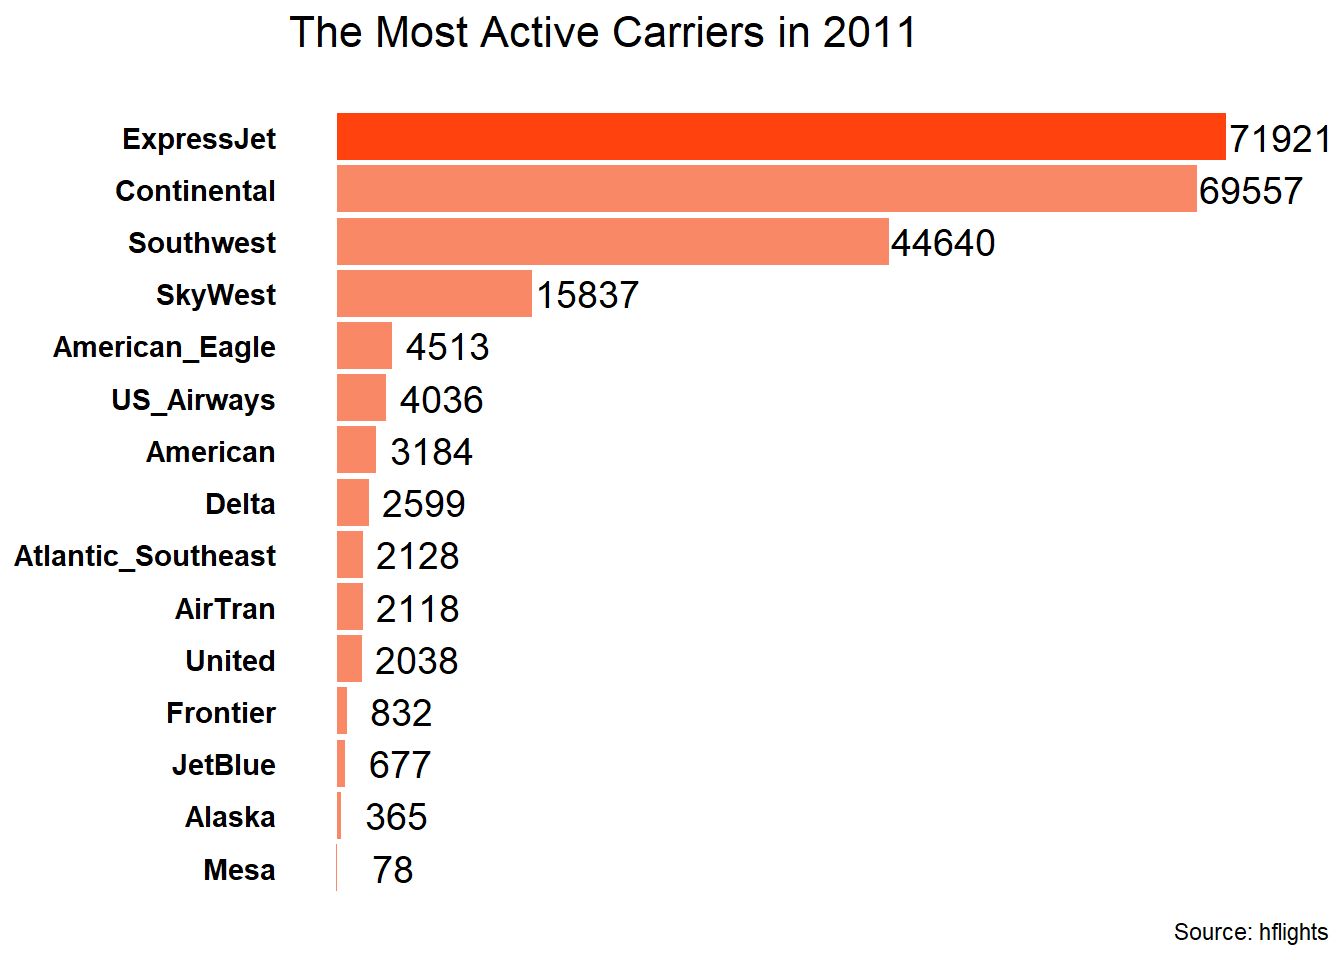
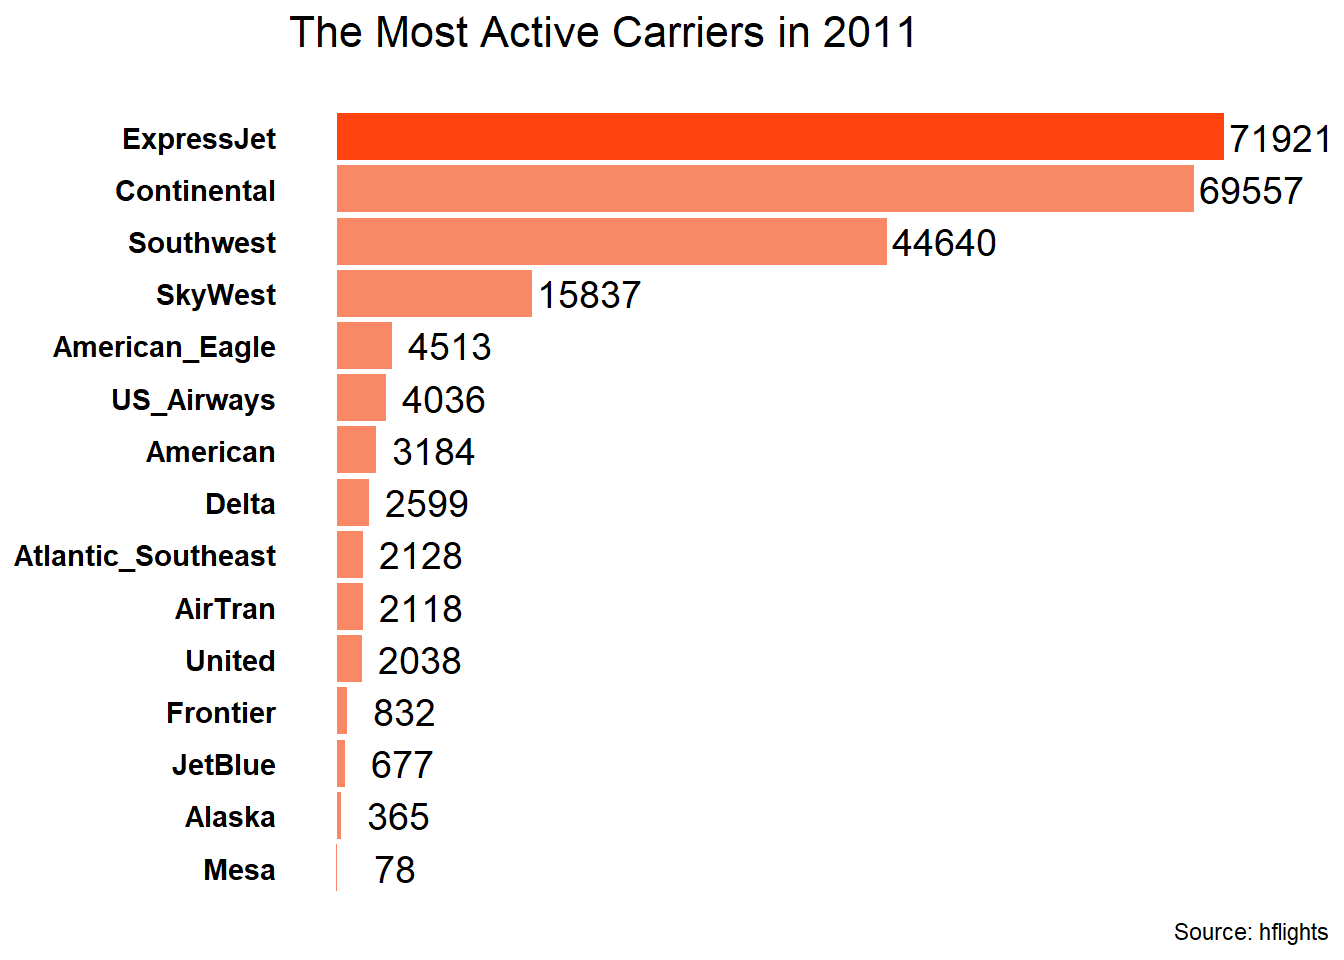
Initial Commit

diff --git a/content/post/2018-11-16-analysis-of-airlines-market-in-usa.html b/content/post/2018-11-16-analysis-of-airlines-market-in-usa.html
@@ -127,7 +127,7 @@ market_snapshot</code></pre>
 ggplot(market_snapshot, aes(x = reorder(Carrier, flights), y = flights)) + 
   geom_bar(stat = &quot;identity&quot;, aes(fill = highest)) + 
   scale_fill_manual(values = c(&quot;#F98866&quot;,&quot;#FF420E&quot;)) + coord_flip() +
-  geom_text(aes(y= flights, x = seq(15,1), label = paste0(round(flights),&quot;&quot;)), nudge_y = 4500, color=&quot;black&quot;, size = 5) + 
+  geom_text(aes(y= flights, x = seq(15,1), label = paste0(round(flights),&quot;&quot;)), nudge_y = 4700, color=&quot;black&quot;, size = 5) + 
   theme_minimal() +
   theme(axis.title.x = element_blank(),
         axis.title.y = element_blank(),

diff --git a/public/post/analysis-of-airlines-market-in-usa/index.html b/public/post/analysis-of-airlines-market-in-usa/index.html
@@ -200,7 +200,7 @@ market_snapshot</code></pre>
 ggplot(market_snapshot, aes(x = reorder(Carrier, flights), y = flights)) + 
   geom_bar(stat = &quot;identity&quot;, aes(fill = highest)) + 
   scale_fill_manual(values = c(&quot;#F98866&quot;,&quot;#FF420E&quot;)) + coord_flip() +
-  geom_text(aes(y= flights, x = seq(15,1), label = paste0(round(flights),&quot;&quot;)), nudge_y = 4500, color=&quot;black&quot;, size = 5) + 
+  geom_text(aes(y= flights, x = seq(15,1), label = paste0(round(flights),&quot;&quot;)), nudge_y = 4700, color=&quot;black&quot;, size = 5) + 
   theme_minimal() +
   theme(axis.title.x = element_blank(),
         axis.title.y = element_blank(),
